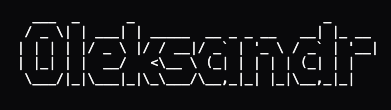
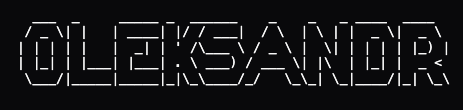
header and footer changes

diff --git a/hooks/tsc.js b/hooks/tsc.js
@@ -1,0 +1,88 @@
+import * as ts from "typescript";
+import * as path from "path";
+
+// Read stdin
+async function readInput() {
+  const chunks = [];
+  for await (const chunk of process.stdin) {
+    chunks.push(chunk);
+  }
+  return JSON.parse(Buffer.concat(chunks).toString());
+}
+
+function runTypeCheck(configPath) {
+  // Parse the tsconfig.json file
+  const configFile = ts.readConfigFile(configPath, ts.sys.readFile);
+  if (configFile.error) {
+    console.error(
+      ts.formatDiagnostic(configFile.error, {
+        getCanonicalFileName: (x) => x,
+        getCurrentDirectory: ts.sys.getCurrentDirectory,
+        getNewLine: () => ts.sys.newLine,
+      })
+    );
+    return;
+  }
+
+  // Parse the configuration
+  const parseConfigHost = {
+    fileExists: ts.sys.fileExists,
+    readFile: ts.sys.readFile,
+    readDirectory: ts.sys.readDirectory,
+    getCurrentDirectory: ts.sys.getCurrentDirectory,
+    onUnRecoverableConfigFileDiagnostic: () => {},
+  };
+
+  const parsed = ts.parseJsonConfigFileContent(
+    configFile.config,
+    parseConfigHost,
+    path.dirname(configPath)
+  );
+
+  // Override to ensure no emit
+  const compilerOptions = {
+    ...parsed.options,
+    noEmit: true,
+  };
+
+  // Create the program
+  const program = ts.createProgram(parsed.fileNames, compilerOptions);
+
+  // Get all diagnostics
+  const allDiagnostics = ts.getPreEmitDiagnostics(program);
+
+  // Format and display diagnostics
+  if (allDiagnostics.length > 0) {
+    const formatHost = {
+      getCanonicalFileName: (path) => path,
+      getCurrentDirectory: ts.sys.getCurrentDirectory,
+      getNewLine: () => ts.sys.newLine,
+    };
+
+    const formattedDiagnostics = ts.formatDiagnostics(
+      allDiagnostics,
+      formatHost
+    );
+    return formattedDiagnostics; // Type check failed
+  }
+
+  return null; // Type check passed
+}
+
+async function main() {
+  const input = await readInput();
+  const file = input.tool_response?.filePath || input.tool_input?.file_path;
+
+  // Only check TypeScript files
+  if (!file || !/\.(ts|tsx)$/.test(file)) {
+    process.exit(0);
+  }
+
+  const typeChecks = runTypeCheck("./tsconfig.json");
+  if (typeChecks) {
+    console.error(typeChecks);
+    process.exit(2);
+  }
+}
+
+main();

diff --git a/src/shared/ui/Header.tsx b/src/shared/ui/Header.tsx
@@ -5,26 +5,26 @@ import { jetBrainsMono, LINKS } from "../config";
 export function Header() {
   return (
     <header
-      className={`flex justify-between ${jetBrainsMono.className} text-[14px] mb-3 -ml-4`}
+      className={`flex justify-between ${jetBrainsMono.className} text-[12px] mb-3 -ml-4`}
     >
       <div className="flex gap-5">
         <Image
           src="/ascii-art-text.png"
           alt="ascii-art-name"
-          width={350}
+          width={450}
           height={100}
         />
-        <div className="text-gray-300 flex flex-col justify-end">
+        <div className="text-gray-300 flex flex-col justify-center">
           <p>Name</p>
           <p>Location</p>
           <p>Position</p>
           <p>Editor</p>
         </div>
-        <div className="text-gray-400 flex flex-col justify-end">
+        <div className="text-gray-400 flex flex-col justify-center">
           <p>Oleksandr Yalovyi</p>
-          <p>Katowice, Poland</p>
+          <p>Częstochowa, Poland</p>
           <p>Senior Fullstack Developer</p>
-          <p>Cursor</p>
+          <p>VSCode, Cursor</p>
         </div>
       </div>
       <div className="flex gap-5">

diff --git a/src/shared/ui/Footer.tsx b/src/shared/ui/Footer.tsx
@@ -1,8 +1,5 @@
+import { getTimeStr } from "../lib/getTimeStr";
+
 export function Footer() {
-  return (
-    <footer>
-      By Alex Yalovyi | {new Date().getHours().toString().padStart(2, "0")}:
-      {new Date().getMinutes().toString().padStart(2, "0")}
-    </footer>
-  );
+  return <footer>By Alex Yalovyi | {getTimeStr(new Date())}</footer>;
 }

diff --git a/src/shared/lib/getTimeStr.ts b/src/shared/lib/getTimeStr.ts
@@ -1,0 +1,7 @@
+export const getTimeStr = (date: Date) => {
+  return (
+    date.getHours().toString().padStart(2, "0") +
+    ":" +
+    date.getMinutes().toString().padStart(2, "0")
+  );
+};
